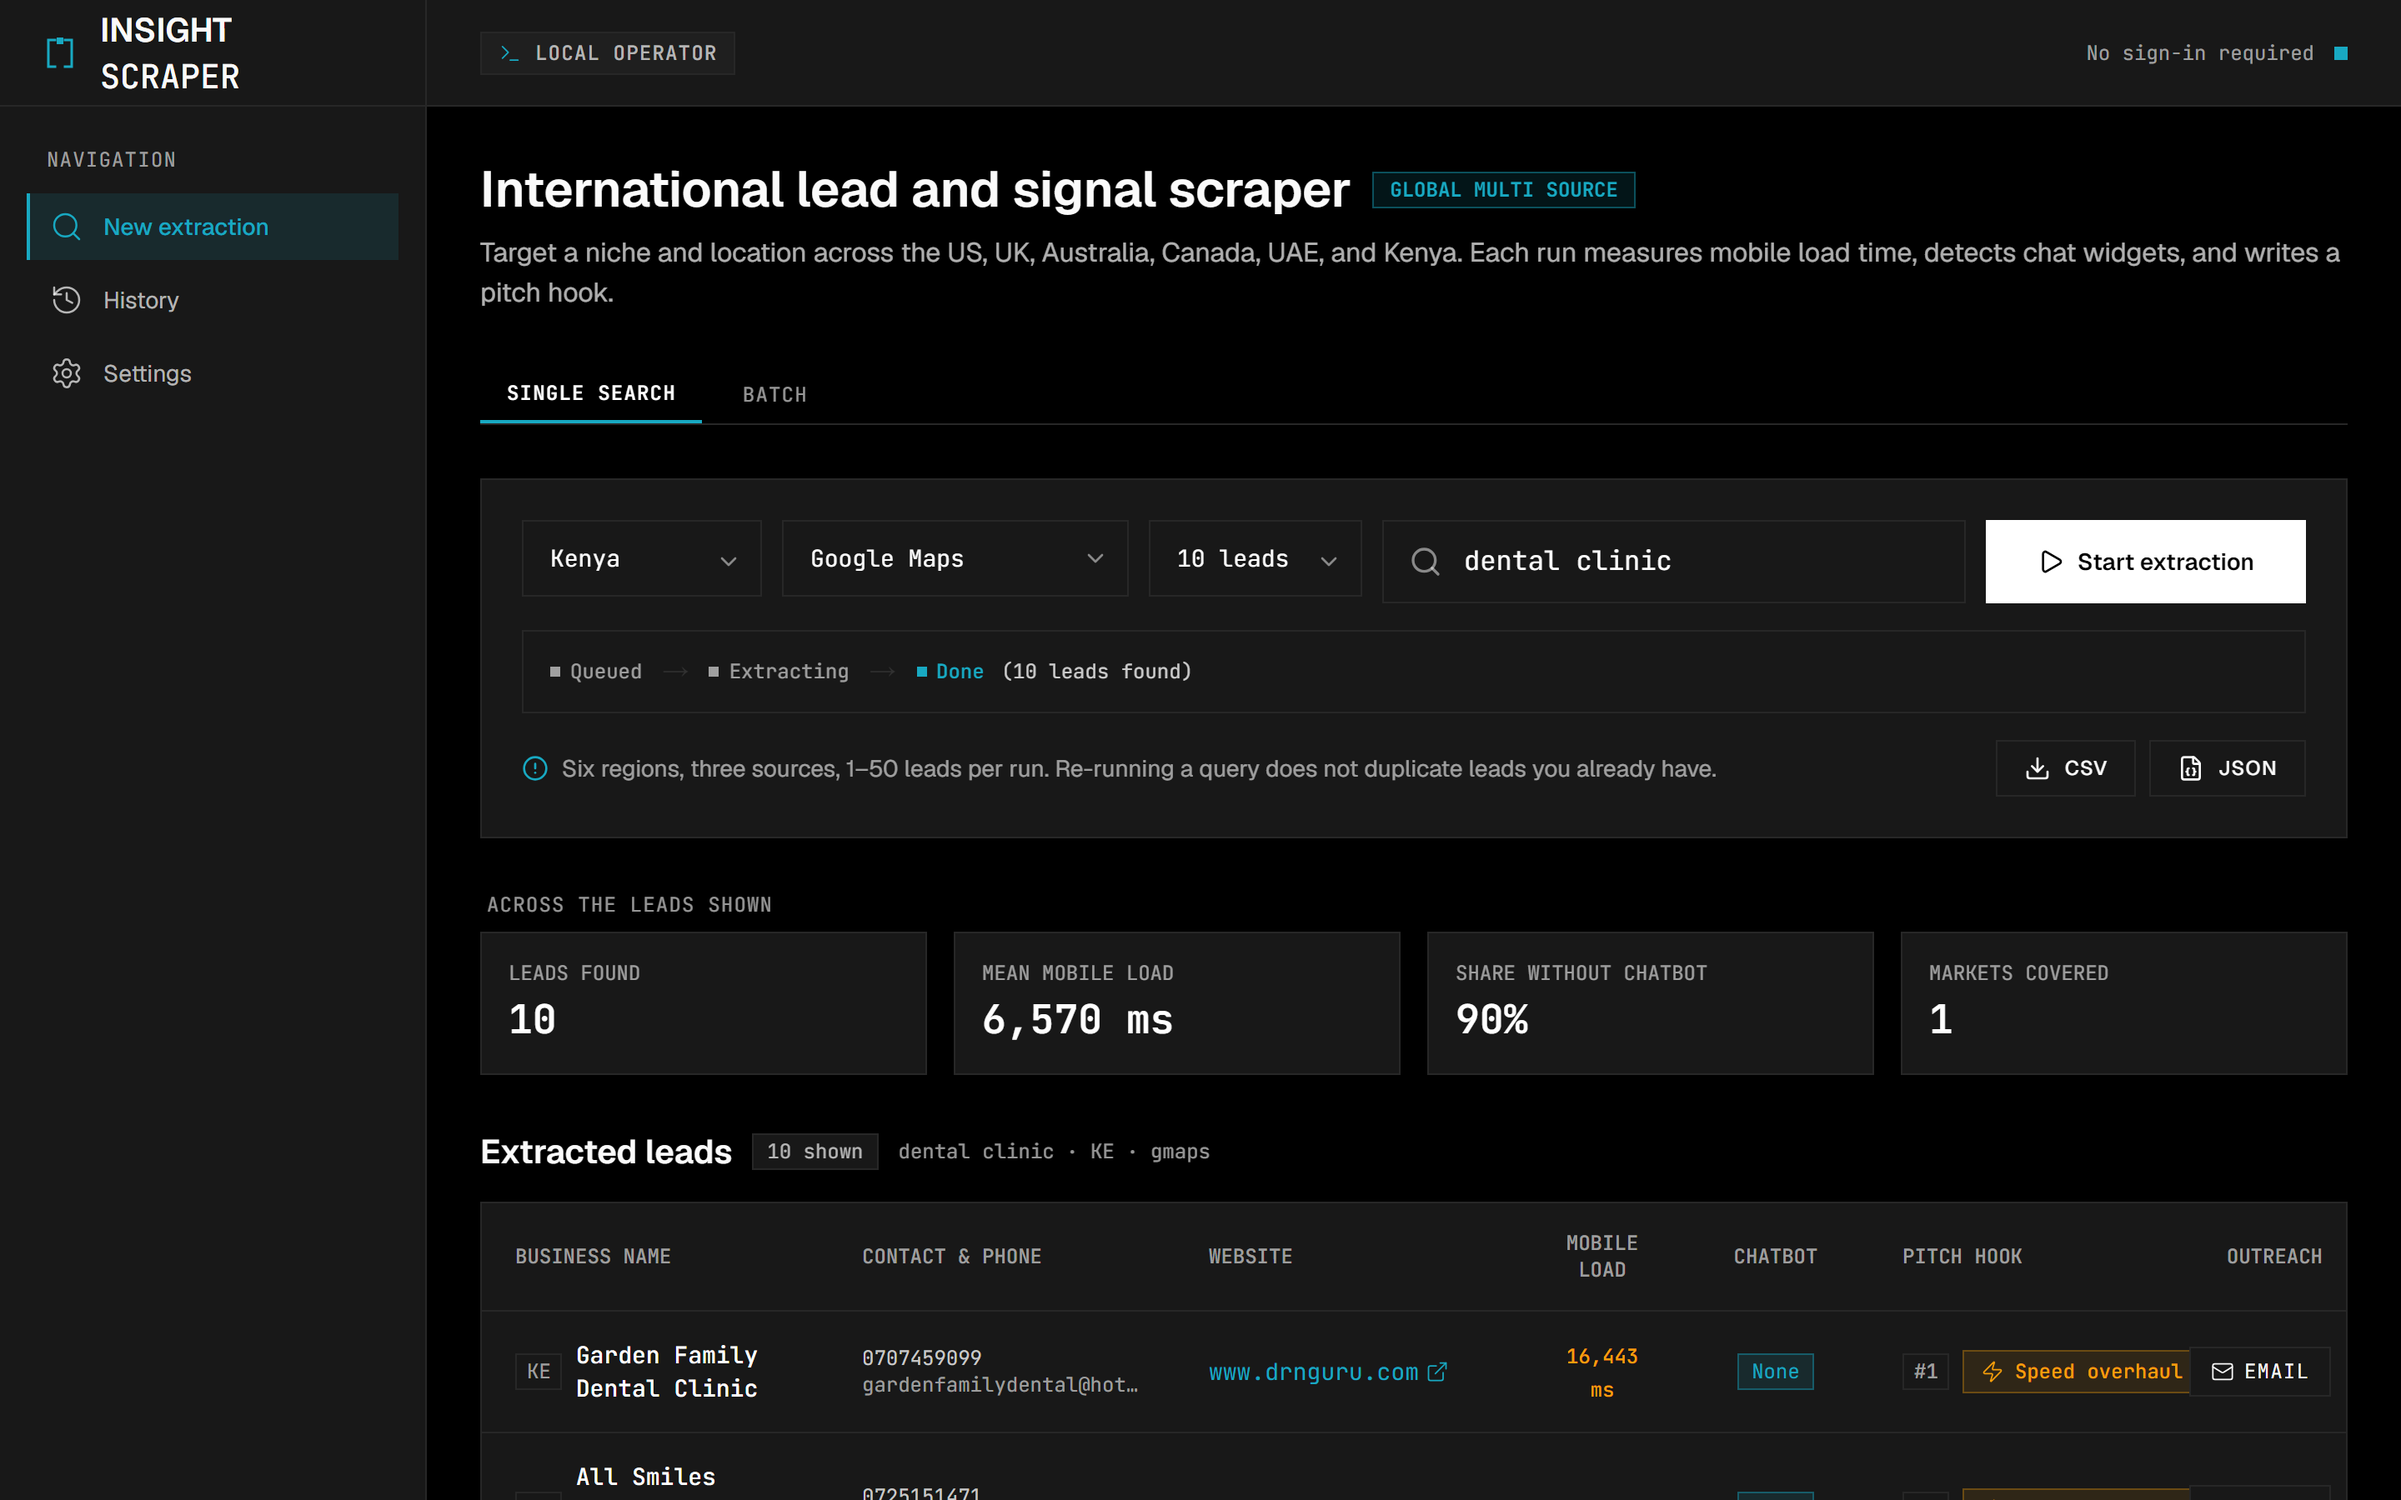
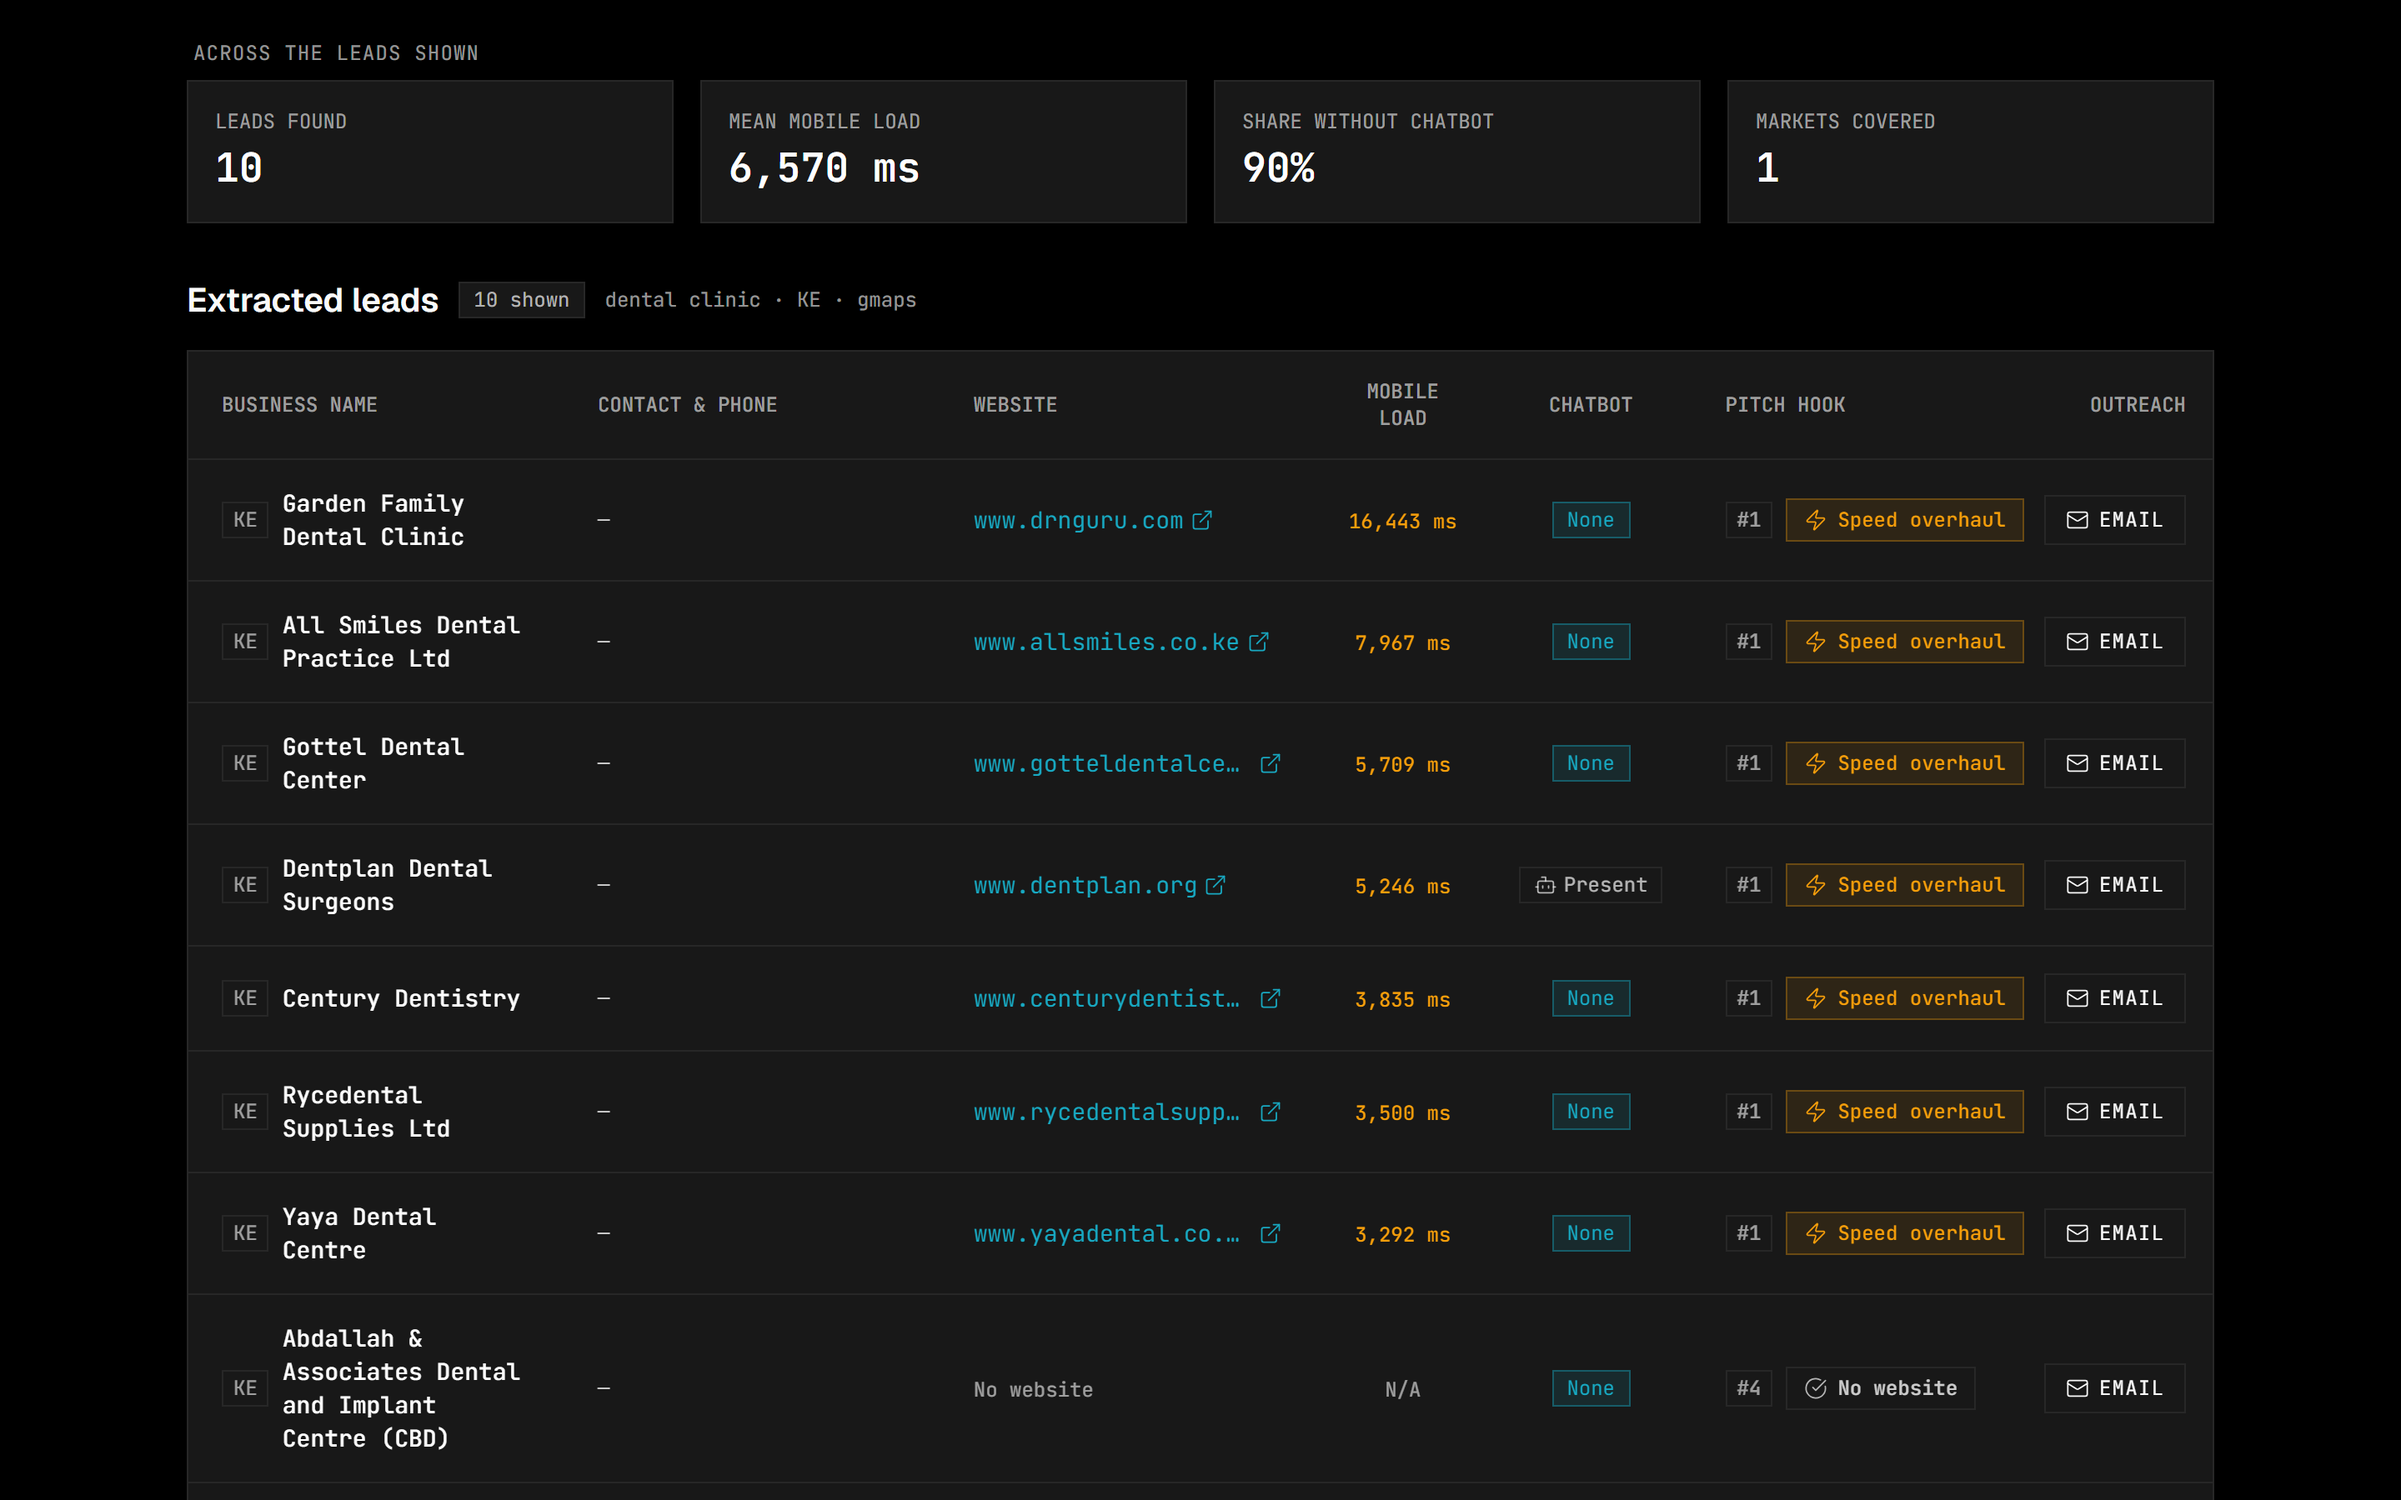
docs: publish masked artifacts and link the sample route

diff --git a/README.md b/README.md
@@ -10,7 +10,11 @@ Lead generation that shows its work. It scrapes business listings, measures four
 for each business, ranks the strongest measured weakness as the opening, and writes a
 ready-to-send outreach email from that evidence.
 
-![Dashboard showing a completed scrape](docs/assets/dashboard-desktop.png)
+Public sample: [`/demo`](https://insight-scraper.vercel.app/demo) — a real run, read-only, no account.
+
+![Sample lead table from /demo with contact details masked](docs/assets/dashboard-desktop.png)
+
+*Captured from [`/demo`](https://insight-scraper.vercel.app/demo) — contact details are masked for publication.*
 
 Every number in a lead is measured, and every email is generated by a deterministic
 function — no LLM, no guessed facts, no invented load times.
@@ -81,19 +85,29 @@ The email for the first row, verbatim from `pitch.py`:
 email and phone come from workspace settings and are omitted when empty.
 
 The full export from that run is
-[`docs/assets/sample-leads.csv`](docs/assets/sample-leads.csv) — ten rows, produced by
-the dashboard's own CSV button, no editing.
+[`docs/assets/sample-leads.csv`](docs/assets/sample-leads.csv) — the same ten rows
+exported from [`/demo`](https://insight-scraper.vercel.app/demo), with phone numbers and
+email addresses masked for publication.
 
 ## Screenshots
 
-The same run at 390 px — the table becomes one card per lead, with the evidence and rank
-still visible:
+All screenshots below are taken from the public [`/demo`](https://insight-scraper.vercel.app/demo)
+page (contact details masked for publication):
 
-![Lead cards on mobile](docs/assets/dashboard-mobile.png)
+![Public /demo page at 1440 px](docs/assets/demo-desktop.png)
+
+The `/demo` page at 390 px — provenance banner and read-only toolbar:
+
+![Public /demo page on mobile](docs/assets/demo-mobile.png)
+
+The same run at 390 px — the table becomes one card per lead, with the evidence, rank,
+and masked contact row still visible:
+
+![Lead cards on mobile from /demo](docs/assets/dashboard-mobile.png)
 
 Each lead opens its generated email, ready to copy:
 
-![Per-lead email preview](docs/assets/email-dialog.png)
+![Per-lead email preview over masked rows](docs/assets/email-dialog.png)
 
 ## How it works
 
@@ -215,8 +229,9 @@ Hosted mode swaps the auth bypass for Clerk organizations and enables the billin
 surfaces. The free API instance sleeps when idle, so the first request after a pause can
 take 30–50 seconds.
 
-Live dashboard: <https://insight-scraper.vercel.app> — it redirects to Clerk sign-in, so
-the screenshots above are what a run looks like once you are in.
+Live app: <https://insight-scraper.vercel.app> links directly to the public read-only
+sample at <https://insight-scraper.vercel.app/demo> (no account required). Running live
+extractions on `/dashboard` requires Clerk sign-in and a workspace invitation.
 
 ## Scope: what is built, and what is not
 
@@ -245,7 +260,7 @@ Known limits, stated plainly:
 
 ```text
 apps/dashboard/            Next.js 16 App Router dashboard
-  src/app/                 routes: dashboard, history, settings, billing, sign-in
+  src/app/                 routes: demo, dashboard, history, settings, billing, sign-in
   src/lib/                 API client, auth mode, CSV/JSON export
   src/proxy.ts             Clerk route protection (Next.js 16 proxy)
 services/api/src/          FastAPI service and Playwright worker
